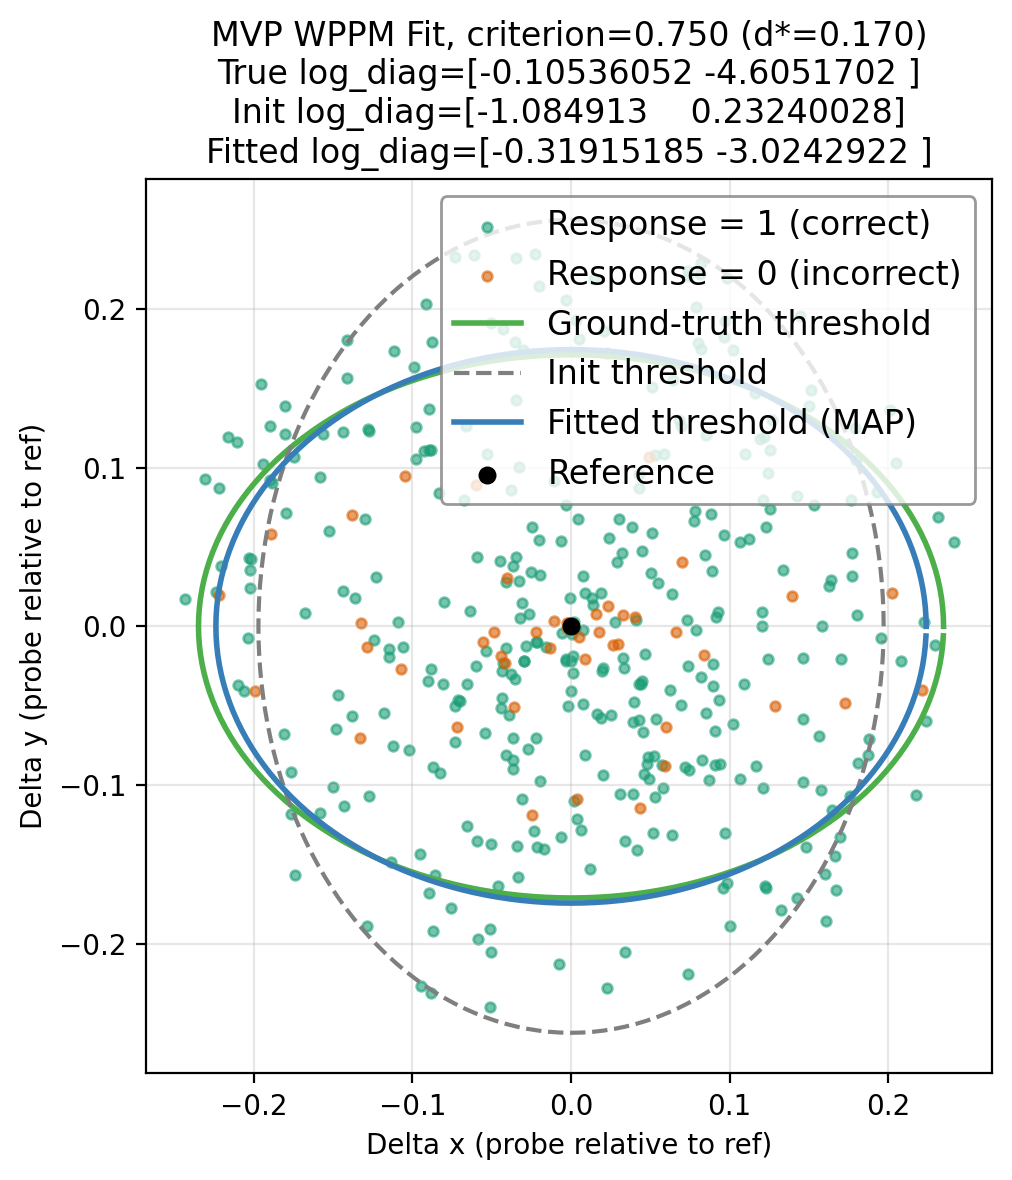
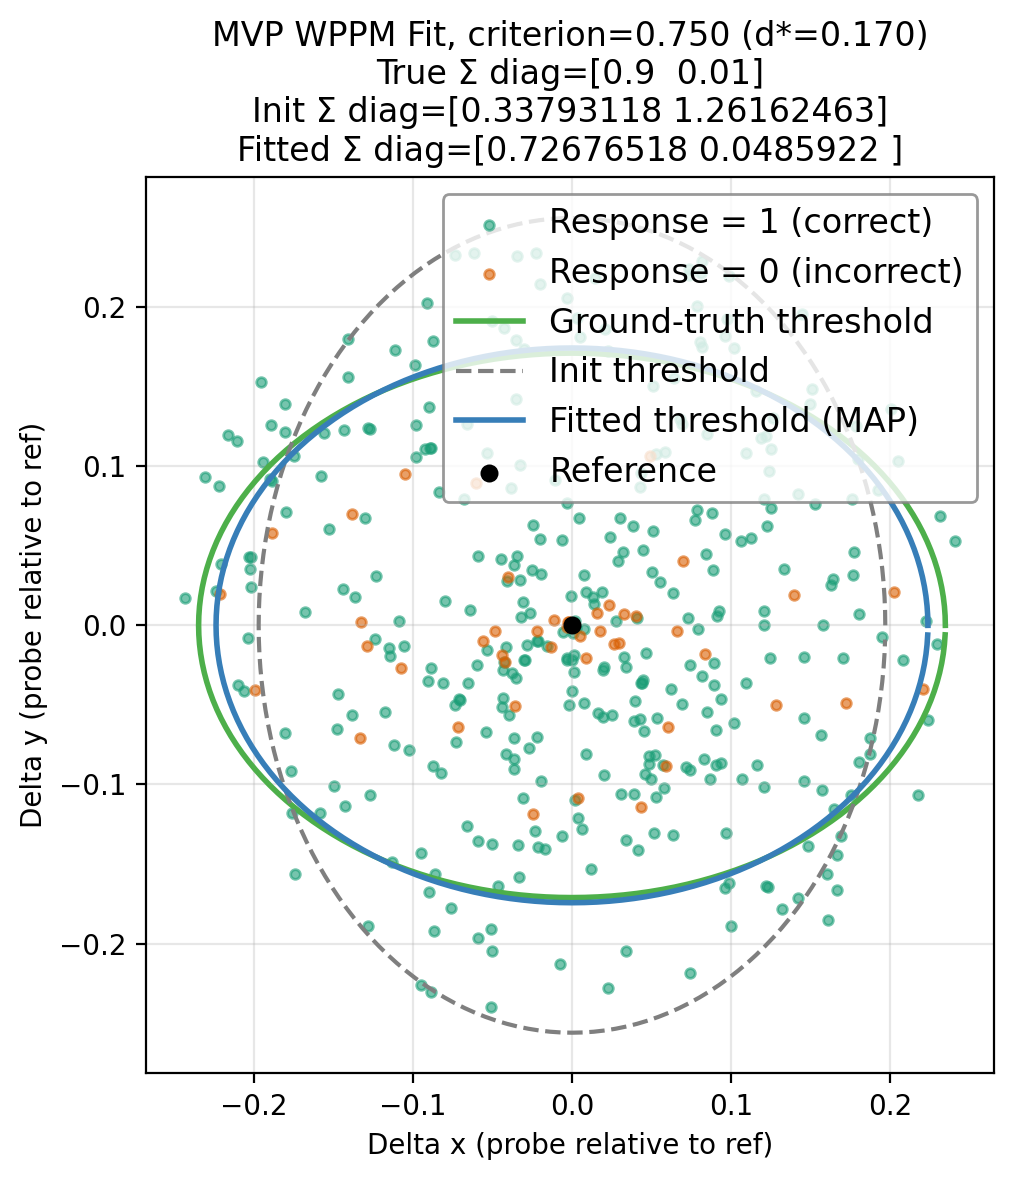
turning mvp example into wishart distribution object, still buggy though

diff --git a/docs/examples/mvp/offline_fit_mvp.py b/docs/examples/mvp/offline_fit_mvp.py
@@ -18,7 +18,7 @@ No Monte Carlo sampling over internal representations is used here.
 
 Thus, the likelihood for each trial is:
     y_i ~ Bernoulli(p_correct_i)
-and the overall dataset likelihood is \Prod_i p(y_i | ref_i, probe_i, θ, task).
+and the overall dataset likelihood is ∏_i p(y_i | ref_i, probe_i, θ, task).
 
 Note:
 - The 'truth_model' and 'fitted_model' share the same class (WPPM), 
@@ -49,7 +49,7 @@ sys.path.insert(0, os.path.abspath(os.path.join(os.path.dirname(__file__), "../.
 # --8<-- [start:imports]
 from psyphy.data.dataset import ResponseData
 from psyphy.model.noise import GaussianNoise
-from psyphy.model.prior import Prior
+from psyphy.model.prior import Prior, WishartPrior
 from psyphy.model.task import OddityTask
 from psyphy.model.wppm import WPPM
 
@@ -241,7 +241,7 @@ ax.set_aspect("equal", adjustable="box")
 ax.set_xlabel("Delta x (probe relative to ref)")
 ax.set_ylabel("Delta y (probe relative to ref)")
 ax.set_title(
-    f"Simulated Trials \n"
+    "Simulated Trials \n"
 )
 ax.legend(loc="upper right", frameon=True, facecolor="white", edgecolor="gray", fontsize=12)
 ax.grid(True, alpha=0.3)
@@ -249,7 +249,7 @@ plt.tight_layout()
 
 # Save thresholds figure with a filename encoding lr and steps
 os.makedirs(PLOTS_DIR, exist_ok=True)
-base = f"simulated_trials"
+base = "simulated_trials"
 thresh_path = os.path.join(PLOTS_DIR, f"{base}.png")
 fig.savefig(thresh_path, dpi=200, bbox_inches="tight")
 print(f"    Saved thresholds plot to {thresh_path}")
@@ -269,13 +269,29 @@ print("[3/6] Initializing model from prior...")
 # from psyphy.model.prior import Prior
 # from psyphy.model.noise import GaussianNoise
 # from psyphy.model.wppm import WPPM
-prior = Prior.default(input_dim=2, scale=0.5) # Gaussian prior on log_diag
+# You can switch to a full-covariance prior; below we center it near the ground-truth diagonal mean
+nu = 5.0
+V_center = jnp.diag(jnp.array([0.9, 0.01])) / nu  # E[Σ] = ν V ≈ diag(0.9, 0.01)
+prior = WishartPrior.default(input_dim=2, nu=nu, V=V_center)
+# prior = Prior.default(input_dim=2, scale=0.5) # Gaussian prior on log_diag (back-compat MVP)
 noise = GaussianNoise(sigma=1.0)   # additive isotropic Gaussian noise
 model = WPPM(input_dim=2, prior=prior, task=task, noise=noise)
 init_params = model.init_params(jax.random.PRNGKey(42))
 # --8<-- [end:model]
-print("    Init log_diag:", np.array(init_params["log_diag"]))
-print("    Init covariance diag:", np.exp(np.array(init_params["log_diag"])))
+def _sigma_from_params(params) -> np.ndarray:
+    # Build Σ from either diagonal log-variances or packed Cholesky params
+    if "chol_params" in params:
+        vec = np.array(params["chol_params"], dtype=float)  # length 3 for 2D: [a, b, c]
+        a, b, c = vec
+        # Add tiny floors to diagonals to avoid underflow to exact zero
+        L = np.array([[np.exp(a) + 1e-12, 0.0], [b, np.exp(c) + 1e-12]], dtype=float)
+        return L @ L.T
+    elif "log_diag" in params:
+        return np.diag(np.exp(np.array(params["log_diag"], dtype=float)))
+    raise KeyError("Expected 'chol_params' or 'log_diag' in params")
+
+Sigma_init = _sigma_from_params(init_params)
+print("    Init covariance diag:", np.diag(Sigma_init))
 
 # ---------- 4) MAP fit (with learning curve) ----------
 # Optimize the negative log posterior with Optax; record loss every 10 steps
@@ -286,8 +302,17 @@ steps = 100
 lr = 2e-2
 momentum = 0.9
 
-# Use SGD+momentum from Optax
-opt = optax.sgd(learning_rate=lr, momentum=momentum)
+# Use a safer optimizer when using full-covariance (chol_params)
+if "chol_params" in init_params:
+    steps = 300
+    lr = 1e-3
+    opt = optax.chain(
+        optax.clip_by_global_norm(1.0),
+        optax.adam(learning_rate=lr),
+    )
+else:
+    # Use SGD+momentum from Optax for diagonal MVP
+    opt = optax.sgd(learning_rate=lr, momentum=momentum)
 
 # Define loss = negative log posterior (minimize it)
 def _loss_fn(params):
@@ -319,6 +344,10 @@ loss_iters: list[int] = []
 loss_values: list[float] = []
 for i in range(steps):
     params, opt_state, loss = _step(params, opt_state) # single JIT-compiled step
+    # Break if loss becomes non-finite (stability guard)
+    if not np.isfinite(float(loss)):
+        print("    Warning: non-finite loss encountered; stopping early.")
+        break
     if (i % 10 == 0) or (i == steps - 1):
         loss_iters.append(i)
         loss_values.append(float(loss))
@@ -326,8 +355,8 @@ for i in range(steps):
 fitted_params = params # maximum a posteriori (MAP) estimate after training of θ
 # --8<-- [end:training]
 print(f"[4/6] Running MAP optimization ({steps} steps, SGD+momentum, lr={lr})...")
-print("    Fitted (MAP) log_diag:", np.array(fitted_params["log_diag"]))
-print("    Fitted covariance diag:", np.exp(np.array(fitted_params["log_diag"])))
+Sigma_fit = _sigma_from_params(fitted_params)
+print("    Fitted covariance diag:", np.diag(Sigma_fit))
 
 # ---------- 5) Compute contours ----------
 # Convert the target criterion (0.75) to a discriminability threshold d*.
@@ -337,8 +366,7 @@ criterion = 0.75
 d_thr = invert_oddity_criterion_to_d(criterion, slope=task.slope)
 print(f"[5/6] Computing threshold contours at criterion={criterion:.3f} -> d*={d_thr:.4f}")
 
-Sigma_init = np.diag(np.exp(np.array(init_params["log_diag"], dtype=float)))
-Sigma_fit = np.diag(np.exp(np.array(fitted_params["log_diag"], dtype=float)))
+# Sigma_init already computed; Sigma_fit already computed
 
 # Use effective covariance if requested: Σ_eff = Σ + \sigma^2 I
 sigma = float(noise.sigma)
@@ -347,12 +375,17 @@ if INCLUDE_NOISE_IN_THRESHOLDS:
     Sigma_true_plot = Sigma_true + (sigma ** 2) * I2
     Sigma_init_plot = Sigma_init + (sigma ** 2) * I2
     Sigma_fit_plot = Sigma_fit + (sigma ** 2) * I2
-    print(f"    Using effective covariance in plots: Σ + \sigma^2 I (\sigma={sigma})")
+    print(f"    Using effective covariance in plots: Σ + σ^2 I (σ={sigma})")
 else:
     Sigma_true_plot = Sigma_true
     Sigma_init_plot = Sigma_init
     Sigma_fit_plot = Sigma_fit
     print("    Using model Σ only in plots (no noise added)")
+
+# Add a tiny ridge to ensure numerical PD for plotting
+Sigma_true_plot = Sigma_true_plot + 1e-12 * I2
+Sigma_init_plot = Sigma_init_plot + 1e-12 * I2
+Sigma_fit_plot = Sigma_fit_plot + 1e-12 * I2
 
 contour_true = ellipse_contour_from_cov(ref_np, Sigma_true_plot, d_threshold=d_thr)
 contour_init = ellipse_contour_from_cov(ref_np, Sigma_init_plot, d_threshold=d_thr)
@@ -387,9 +420,9 @@ ax.set_xlabel("Delta x (probe relative to ref)")
 ax.set_ylabel("Delta y (probe relative to ref)")
 ax.set_title(
     f"MVP WPPM Fit, criterion={criterion:.3f} (d*={d_thr:.3f})\n"
-    f"True log_diag={np.array(log_diag_true)}\n"
-    f"Init log_diag={np.array(init_params['log_diag'])}\n"
-    f"Fitted log_diag={np.array(fitted_params['log_diag'])}"
+    f"True Σ diag={np.diag(Sigma_true)}\n"
+    f"Init Σ diag={np.diag(Sigma_init)}\n"
+    f"Fitted Σ diag={np.diag(Sigma_fit)}"
 )
 ax.legend(loc="upper right", frameon=True, facecolor="white", edgecolor="gray", fontsize=12)
 ax.grid(True, alpha=0.3)
@@ -418,4 +451,5 @@ lc_path = os.path.join(PLOTS_DIR, f"{base}_learning_curve.png")
 fig2.savefig(lc_path, dpi=200, bbox_inches="tight")
 print(f"    Saved learning curve to {lc_path}")
 
+plt.show()
 plt.show()

diff --git a/src/psyphy/model/wppm.py b/src/psyphy/model/wppm.py
@@ -31,9 +31,7 @@ from typing import Any, Dict, Tuple
 
 import jax
 import jax.numpy as jnp
-import jax.random as jr
 
-from .prior import Prior
 from .task import TaskLikelihood
 
 # Type aliases for readability
@@ -79,7 +77,7 @@ class WPPM:
     def __init__(
         self,
         input_dim: int,
-        prior: Prior,
+    prior: Any,
         task: TaskLikelihood,
         noise: Any | None = None,
         *,
@@ -103,7 +101,7 @@ class WPPM:
     # ----------------------------------------------------------------------
     # PARAMETERS
     # ----------------------------------------------------------------------
-    def init_params(self, key: jr.KeyArray) -> Params:
+    def init_params(self, key: Any) -> Params:
         """
         Sample initial parameters from the prior.
 
@@ -125,8 +123,11 @@ class WPPM:
         Return local covariance Σ(x) at stimulus location x.
 
         MVP:
-            Σ(x) = diag(exp(log_diag)), constant across x.
-            - Positive-definite because exp(log_diag) > 0.
+            - Back-compat: if params has "log_diag", use Σ = diag(exp(log_diag)).
+            - New (preferred): if params has "chol_params", interpret these as
+              unconstrained parameters for a lower-triangular Cholesky factor L
+              with positive diagonal via exp, and return Σ = L @ L.T.
+            In both cases, Σ is constant across x.
         Future (full WPPM mode):
             Σ(x) varies smoothly with x via basis expansions and a Wishart-process
             prior controlled by (extra_dims, variance_scale, lengthscale). Those
@@ -143,6 +144,10 @@ class WPPM:
         -------
         Σ : jnp.ndarray, shape (input_dim, input_dim)
         """
+        if "chol_params" in params:
+            L = self._chol_from_params(params)
+            return L @ L.T
+        # Backward compatibility: diagonal-only parameters
         log_diag = params["log_diag"]               # unconstrained diagonal log-variances
         diag = jnp.exp(log_diag)                    # enforce positivity
         return jnp.diag(diag)                       # constant diagonal covariance
@@ -178,12 +183,22 @@ class WPPM:
         """
         ref, probe = stimulus
         delta = probe - ref                                # difference vector in input space
-        Sigma = self.local_covariance(params, ref)         # local covariance at reference
-        # Add jitter for stable solve; diag_term is configurable
-        jitter = self.diag_term * jnp.eye(self.input_dim)
-        # Solve (Σ + jitter)^{-1} delta using a PD-aware solver
-        x = jax.scipy.linalg.solve(Sigma + jitter, delta, assume_a="pos")
-        d2 = jnp.dot(delta, x)                             # quadratic form
+        # Prefer triangular solves when Cholesky params are provided
+        if "chol_params" in params:
+            L = self._chol_from_params(params)
+            # Add small jitter to diagonal of L to ensure strong PD in extreme cases
+            L = L.at[jnp.diag_indices(self.input_dim)].add(self.diag_term)
+            # Solve L y = delta; then L^T x = y
+            y = jax.scipy.linalg.solve_triangular(L, delta, lower=True, trans='N')
+            x = jax.scipy.linalg.solve_triangular(L, y, lower=True, trans='T')
+            d2 = jnp.dot(delta, x)
+        else:
+            Sigma = self.local_covariance(params, ref)         # local covariance at reference
+            # Add jitter for stable solve; diag_term is configurable
+            jitter = self.diag_term * jnp.eye(self.input_dim)
+            # Solve (Σ + jitter)^{-1} delta using a PD-aware solver
+            x = jax.scipy.linalg.solve(Sigma + jitter, delta, assume_a="pos")
+            d2 = jnp.dot(delta, x)                             # quadratic form
         # Guard against tiny negative values from numerical error
         return jnp.sqrt(jnp.maximum(d2, 0.0))
 
@@ -284,3 +299,37 @@ class WPPM:
         jnp.ndarray : scalar log posterior = loglik(params | data) + log_prior(params)
         """
         return self.log_likelihood_from_data(params, data) + self.prior.log_prob(params)
+
+    # ----------------------------------------------------------------------
+    # INTERNAL HELPERS (Cholesky parameterization)
+    # ----------------------------------------------------------------------
+    def _chol_from_params(self, params: Params) -> jnp.ndarray:
+        """
+        Build lower-triangular Cholesky factor L from unconstrained params.
+
+        Representation:
+            - params["chol_params"] is a packed vector containing the lower-triangular
+              entries of L in row-major order (i >= j). Diagonals are stored as
+              unconstrained reals that we exp() to enforce positivity.
+
+        Notes:
+            - For input_dim=2 the packed order is [a, b, c] mapping to
+                  L = [[exp(a),   0   ],
+                       [   b,   exp(c)]]
+            - For general input_dim=p, length is p(p+1)/2.
+        """
+        p = self.input_dim
+        vec = params["chol_params"]
+        # Initialize L as zeros and fill lower triangle
+        L = jnp.zeros((p, p), dtype=vec.dtype)
+        idx = 0
+        # Fill row by row
+        for i in range(p):
+            # off-diagonals (i > j)
+            for j in range(i):
+                L = L.at[i, j].set(vec[idx])
+                idx += 1
+            # diagonal (positive)
+            L = L.at[i, i].set(jnp.exp(vec[idx]))
+            idx += 1
+        return L

diff --git a/src/psyphy/model/prior.py b/src/psyphy/model/prior.py
@@ -25,7 +25,7 @@ Connections
 from __future__ import annotations
 
 from dataclasses import dataclass
-from typing import Dict
+from typing import Dict, Optional
 
 import jax.numpy as jnp
 import jax.random as jr
@@ -66,7 +66,7 @@ class Prior:
         """Convenience constructor with MVP defaults."""
         return cls(input_dim=input_dim, scale=scale)
 
-    def sample_params(self, key: jr.KeyArray) -> Params:
+    def sample_params(self, key) -> Params:
         """
         Sample initial parameters from the prior.
 
@@ -92,3 +92,69 @@ class Prior:
         log_diag = params["log_diag"]
         var = self.scale**2
         return -0.5 * jnp.sum((log_diag**2) / var)
+
+
+@dataclass
+class WishartPrior:
+    """
+    Wishart prior over full SPD covariance Σ via a Cholesky parameterization.
+
+    Parameters
+    ----------
+    input_dim : int
+        Dimensionality p of the covariance Σ (Σ is p x p).
+    nu : float, default=3.0
+        Degrees of freedom (must be > p - 1). Controls prior strength.
+    V : jnp.ndarray | None, default=None
+        Scale matrix (p x p, SPD). If None, uses Identity.
+        Note E[Σ] = nu * V.
+    init_scale : float, default=0.1
+        Stddev for initializing unconstrained Cholesky parameters.
+    """
+
+    input_dim: int
+    nu: float = 3.0
+    V: Optional[jnp.ndarray] = None
+    init_scale: float = 0.1
+
+    @classmethod
+    def default(cls, input_dim: int, nu: float = 3.0, V: Optional[jnp.ndarray] = None, init_scale: float = 0.1) -> "WishartPrior":
+        return cls(input_dim=input_dim, nu=nu, V=V, init_scale=init_scale)
+
+    def _pack_size(self) -> int:
+        p = int(self.input_dim)
+        return p * (p + 1) // 2
+
+    def sample_params(self, key) -> Params:
+        size = self._pack_size()
+        vec = jr.normal(key, shape=(size,)) * self.init_scale
+        # initialize diagonals near zero so exp(diag) ≈ 1
+        # leave off-diagonals centered at 0
+        return {"chol_params": vec}
+
+    def log_prob(self, params: Params) -> jnp.ndarray:
+        p = int(self.input_dim)
+        vec = params["chol_params"]
+        # Reconstruct L from packed vector
+        L = jnp.zeros((p, p), dtype=vec.dtype)
+        idx = 0
+        for i in range(p):
+            for j in range(i):
+                L = L.at[i, j].set(vec[idx])
+                idx += 1
+            L = L.at[i, i].set(jnp.exp(vec[idx]))
+            idx += 1
+        # Σ and log|Σ|
+        Sigma = L @ L.T
+        # Safe log|Σ| using diagonal of L; add small epsilon to avoid log(0)
+        eps = jnp.array(1e-12, dtype=Sigma.dtype)
+        sum_log_diag_L = jnp.sum(jnp.log(jnp.diag(L) + eps))
+        log_det_Sigma = 2.0 * sum_log_diag_L
+        # Scale matrix and trace term
+        V = self.V if self.V is not None else jnp.eye(p, dtype=Sigma.dtype)
+        Vinv = jnp.linalg.inv(V)
+        trace_term = jnp.trace(Vinv @ Sigma)
+        # Wishart log density up to constant terms
+        coeff = 0.5 * (self.nu - p - 1.0)
+        logdet_term = coeff * log_det_Sigma
+        return logdet_term - 0.5 * trace_term

diff --git a/src/psyphy/__init__.py b/src/psyphy/__init__.py
@@ -81,11 +81,10 @@ MVP vs Full WPPM mode
 
 ----------------------------------------------------------------------
 """
+# Re-export subpackages for unified import style (e.g., psyphy.model, psyphy.inference)
 # Data
 from . import data as data
 from . import inference as inference
-
-# Re-export subpackages for unified import style (e.g., psyphy.model, psyphy.inference)
 from . import model as model
 from . import posterior as posterior
 from . import session as session
@@ -98,7 +97,7 @@ from .inference.laplace import LaplaceApproximation
 # Inference
 from .inference.map_optimizer import MAPOptimizer
 from .model.noise import GaussianNoise, StudentTNoise
-from .model.prior import Prior
+from .model.prior import Prior, WishartPrior
 from .model.task import OddityTask, TwoAFC
 from .model.wppm import WPPM
 
@@ -112,6 +111,7 @@ __all__ = [
     # Core model
     "WPPM", # needs task for likelihood and noise model
     "Prior",
+  "WishartPrior",
     "OddityTask", 
     "TwoAFC",
     "GaussianNoise", #default noise model
